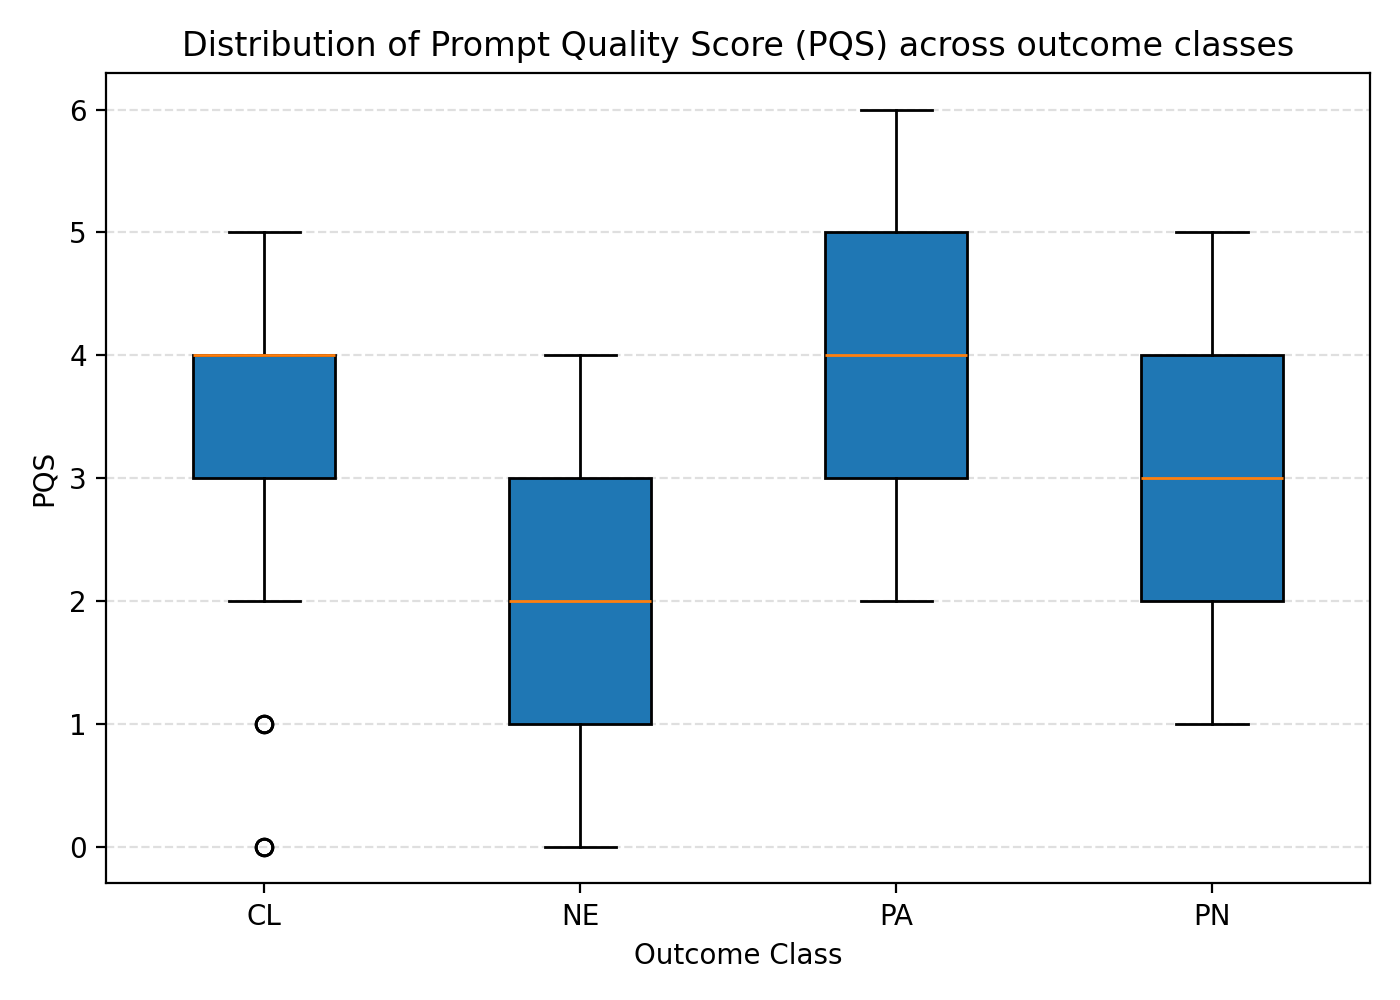
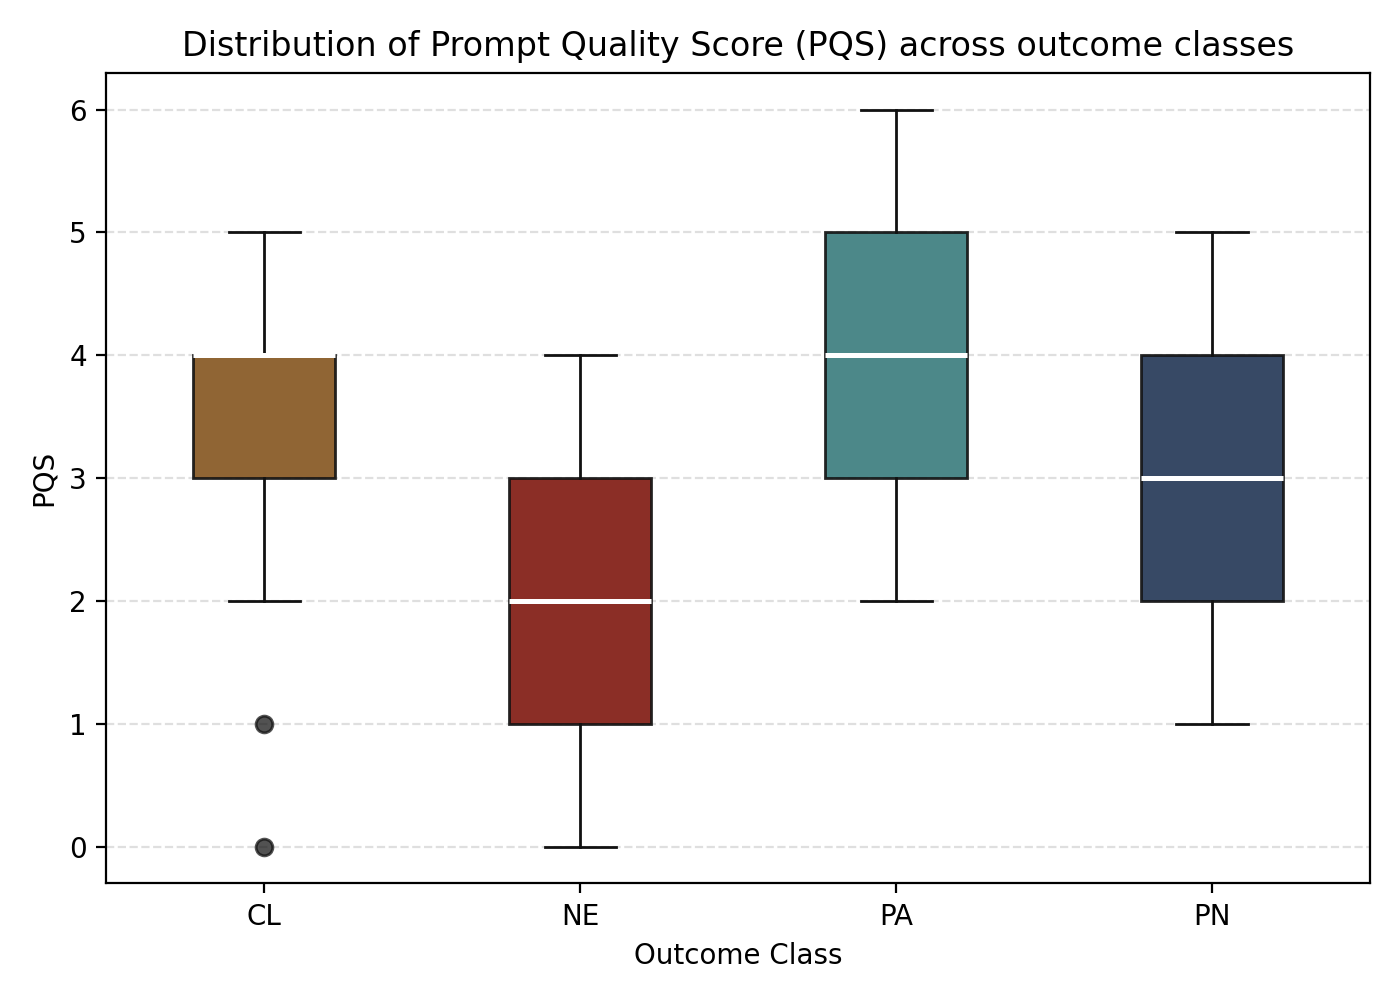
updating custom palette for figure_2_pqs_by_outcome.png

diff --git a/replication/reproduce_figures.py b/replication/reproduce_figures.py
@@ -10,6 +10,14 @@ import matplotlib.pyplot as plt
 from RQ2_Prompt_Effectiveness_Modeling.analysis.common import load_analysis_dataset, ensure_dir
 
 
+OUTCOME_COLORS = {
+    "CL": "#84541E",  # brown
+    "NE": "#7F170E",  # dark red
+    "PA": "#387B7C",  # teal
+    "PN": "#213554",  # navy
+}
+
+
 def reproduce_figures(root_or_results_dir: Path):
     """Regenerate all figures available from the canonical dataset."""
     root = (
@@ -25,7 +33,22 @@ def reproduce_figures(root_or_results_dir: Path):
     order = ["CL", "NE", "PA", "PN"]
     data = [df.loc[df["Outcome_Class"].eq(cls), "PQS"].dropna() for cls in order]
     fig, ax = plt.subplots(figsize=(7, 5))
-    ax.boxplot(data, labels=order, patch_artist=True)
+    bp = ax.boxplot(data, tick_labels=order, patch_artist=True)
+    for patch, cls in zip(bp["boxes"], order):
+        patch.set_facecolor(OUTCOME_COLORS[cls])
+        patch.set_edgecolor("#111111")
+        patch.set_alpha(0.9)
+    for median in bp["medians"]:
+        median.set_color("#FFFFFF")
+        median.set_linewidth(1.8)
+    for whisker in bp["whiskers"]:
+        whisker.set_color("#111111")
+    for cap in bp["caps"]:
+        cap.set_color("#111111")
+    for flier in bp["fliers"]:
+        flier.set_markerfacecolor("#111111")
+        flier.set_markeredgecolor("#111111")
+        flier.set_alpha(0.35)
     ax.set_xlabel("Outcome Class")
     ax.set_ylabel("PQS")
     ax.set_title("Distribution of Prompt Quality Score (PQS) across outcome classes")
@@ -52,7 +75,7 @@ def reproduce_figures(root_or_results_dir: Path):
     context_order = sorted(pa["Context"].unique())
     data = [pa.loc[pa["Context"].eq(c), "Fraction_Adopted"] for c in context_order]
     fig, ax = plt.subplots(figsize=(6, 4))
-    ax.boxplot(data, labels=[str(int(c)) if float(c).is_integer() else str(c) for c in context_order], patch_artist=True)
+    ax.boxplot(data, tick_labels=[str(int(c)) if float(c).is_integer() else str(c) for c in context_order], patch_artist=True)
     ax.set_title("Fraction adopted by Context score among PA cases")
     ax.set_xlabel("Context score")
     ax.set_ylabel("Fraction adopted (%)")
